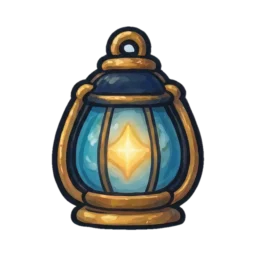
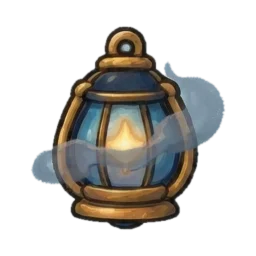
feat(art): the re-rolled fog lantern for a room that isn't answering
The owner's re-roll adds a wisp of fog, so spot-unreachable no longer
looks like spot-limits. 512² with real transparency; web sizes and the
gallery picture refreshed.

diff --git a/docs/gallery/README.md b/docs/gallery/README.md
@@ -18,7 +18,7 @@ rebuilt by `capture.mjs`; edit `manifest.json`, not the table.
 | **A room's drawer (Studio)**<br>Look inside a room: its status in words, what changed, and what needs you. Links open on the room's own site. | [![The Studio drawer open beside the Bridge, showing a need, cards with tone words, and an Open Studio button. (390px)](shots/room-drawer-studio/starfield-390.png)](shots/room-drawer-studio/starfield-390.png) | [![The Studio drawer open beside the Bridge, showing a need, cards with tone words, and an Open Studio button. (1440px)](shots/room-drawer-studio/starfield-1440.png)](shots/room-drawer-studio/starfield-1440.png) | captured 2026-09-26 @ 75c87aa |
 | **Workshop drawer with Secrets**<br>The Workshop's Secrets section, for the owner only: key names and health, never a value. | [![The Workshop drawer with a Secrets section: the station's health in words and key names in groups. (390px)](shots/room-drawer-workshop-secrets/starfield-390.png)](shots/room-drawer-workshop-secrets/starfield-390.png) | [![The Workshop drawer with a Secrets section: the station's health in words and key names in groups. (1440px)](shots/room-drawer-workshop-secrets/starfield-1440.png)](shots/room-drawer-workshop-secrets/starfield-1440.png) | captured 2026-09-26 @ 75c87aa |
 | **Secrets: waiting for you**<br>An agent asked for a secret. Nothing is shared until you type it on Project Home's page. | [![The Workshop drawer's Secrets section with a request card and an Enter it in Project Home button. (390px)](shots/secrets-waiting/starfield-390.png)](shots/secrets-waiting/starfield-390.png) | [![The Workshop drawer's Secrets section with a request card and an Enter it in Project Home button. (1440px)](shots/secrets-waiting/starfield-1440.png)](shots/secrets-waiting/starfield-1440.png) | captured 2026-09-26 @ efd3063 |
-| **A room Worlds can't reach**<br>A room that isn't answering says so and when it last answered. Nothing from it is shown as current. | [![The Cellar drawer saying Worlds can't reach it and when it last answered. (390px)](shots/unreachable-room/starfield-390.png)](shots/unreachable-room/starfield-390.png) | [![The Cellar drawer saying Worlds can't reach it and when it last answered. (1440px)](shots/unreachable-room/starfield-1440.png)](shots/unreachable-room/starfield-1440.png) | captured 2026-09-26 @ efd3063 |
+| **A room Worlds can't reach**<br>A room that isn't answering says so and when it last answered. Nothing from it is shown as current. | [![The Cellar drawer saying Worlds can't reach it and when it last answered. (390px)](shots/unreachable-room/starfield-390.png)](shots/unreachable-room/starfield-390.png) | [![The Cellar drawer saying Worlds can't reach it and when it last answered. (1440px)](shots/unreachable-room/starfield-1440.png)](shots/unreachable-room/starfield-1440.png) | captured 2026-09-26 @ f9e665d |
 | **Find a room (12 or more rooms)**<br>With 12 or more rooms, a search box appears and says how many rooms match. | [![The Rooms section with a Find a room box containing 'st' and a line saying how many rooms match. (390px)](shots/find-a-room/starfield-390.png)](shots/find-a-room/starfield-390.png) | [![The Rooms section with a Find a room box containing 'st' and a line saying how many rooms match. (1440px)](shots/find-a-room/starfield-1440.png)](shots/find-a-room/starfield-1440.png) | captured 2026-09-26 @ 75c87aa |
 | **No rooms yet**<br>Before any room is connected, the Bridge says so and explains how rooms connect. | [![The Rooms section saying there are no rooms yet, with a How rooms connect button. (390px)](shots/no-rooms/starfield-390.png)](shots/no-rooms/starfield-390.png) | [![The Rooms section saying there are no rooms yet, with a How rooms connect button. (1440px)](shots/no-rooms/starfield-1440.png)](shots/no-rooms/starfield-1440.png) | captured 2026-09-26 @ efd3063 |
 | **Ask about a room in Chat**<br>Ask about a room: Chat opens with a question already written in the box. You send it. | [![The Chat screen with a question about Studio written in the message box, not yet sent. (390px)](shots/ask-in-chat/starfield-390.png)](shots/ask-in-chat/starfield-390.png) | [![The Chat screen with a question about Studio written in the message box, not yet sent. (1440px)](shots/ask-in-chat/starfield-1440.png)](shots/ask-in-chat/starfield-1440.png) | captured 2026-09-26 @ 75c87aa |
